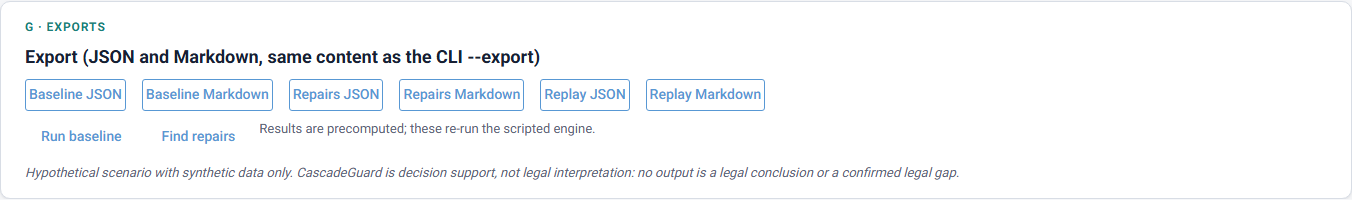
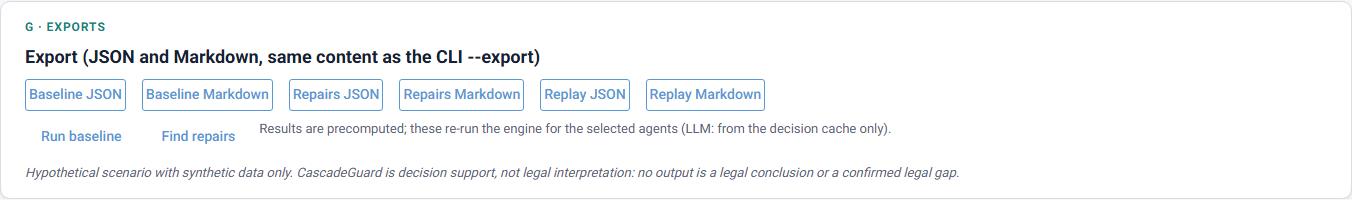
Phase 6: replay lanes rebuilt only when shown; wider graph columns; report and PROGRESS

Changed region(s): [[0.3728, 0.6, 0.6524, 0.69]]

diff --git a/src/cascadeguard/ui/app.py b/src/cascadeguard/ui/app.py
@@ -710,7 +710,7 @@ def index() -> None:
     views = {
         "a": verdict_view.refresh,
         "b": lambda: (baseline_lanes.refresh(), role_panel_view.refresh()),
-        "r": lambda: (replay_lanes.refresh(), role_panel_view.refresh()),  # in section b
+        "r": lambda: refresh_replay_lanes(),  # in section b
         "c": refresh_graph,
         "d": diagnosis_view.refresh,
         "e": ladder_view.refresh,
@@ -780,7 +780,20 @@ def index() -> None:
         load(cast(Bundle | str, await run.io_bound(recompute, s.scenario, s.mode)))
         ui.notify("Re-ran the baseline and repair search.")
 
+    replay_stale = [False]  # replay lanes not rebuilt since the data or selection changed
+
+    def refresh_replay_lanes() -> None:
+        """Rebuild the replay lanes only while they are shown; otherwise on the switch to them."""
+        if replay_box.visible:
+            replay_lanes.refresh()
+            role_panel_view.refresh()
+        else:
+            replay_stale[0] = True
+
     def pick_lanes(which: str) -> None:
+        if which == "replay" and replay_stale[0]:
+            replay_stale[0] = False
+            replay_lanes.refresh()
         if s.cell is not None and (s.lanes_run, *s.cell) in cells:
             cells[(s.lanes_run, *s.cell)].classes(remove="cg-cell-selected")
         s.lanes_run, s.cell = which, None

diff --git a/src/cascadeguard/ui/view_model.py b/src/cascadeguard/ui/view_model.py
@@ -235,7 +235,7 @@ def graph_option(result: RunResult, failure_id: str | None = None) -> dict[str, 
     for n in names:
         columns[n.split(":", 1)[0]].append(n)
     position = {
-        n: (160 * KINDS.index(kind), 34 * row)
+        n: (300 * KINDS.index(kind), 30 * row)
         for kind, members in columns.items()
         for row, n in enumerate(members)
     }

diff --git a/docs/review/phase-6-ui/README.md b/docs/review/phase-6-ui/README.md
@@ -1,35 +1,49 @@
 # Phase 6 — Demo UI v2: before / after
 
 Spec: `specs/006-demo-ui-v2.md` (approved 2026-10-26). Localhost, Chromium (Playwright),
-1400×1000, scripted agents, fresh server; each number is the median of 3 runs, each run in a
-new browser context (same method before and after). "Before" is the Phase 4 UI on `main`
-(`425ad8b`); "after" is `phase-6-ui`.
+1400×1000, scripted agents, fresh server. Two methods:
 
-| Measurement | Before | After | Budget |
-|---|---|---|---|
-| First meaningful content | 1,276 ms (load 352 + "Run baseline" click 924) | **414 ms**, no click (verdict) | < 1,500 ms |
-| Repair list | "Find repairs" click: 883 ms | precomputed; stepper to e: **74 ms** | < 200 ms |
-| Compare a repair | 284 ms | **84 ms** | < 200 ms |
-| Role view for another inject | 228 ms (inject select) | **92 ms** (swimlane cell) | < 200 ms |
-| Graph highlight | 125 ms | **159 ms** (dropdown: 2 clicks; options updated in place) | < 200 ms |
-| Stepper (a→b, b→c, c→d, d→e) | n/a | 92, 82, 79, 74 ms | < 200 ms |
-| Swimlanes baseline → replay | n/a | 169 ms | < 200 ms |
-| Guided → Expert | n/a | 145 ms | < 200 ms |
-| Agents Scripted → LLM (cached only), verdict updated | n/a (re-run needed) | 104 ms | < 200 ms |
-| Agents LLM → Scripted, verdict updated | n/a | 140 ms | < 200 ms |
-| Same, every Expert section re-rendered (streamed after the visible update) | n/a | 324 / 406 ms | not a click budget |
+- **Back-to-back script** (same as "before"): median of 3 runs, each run a new browser context;
+  clicks follow each other with no pause. "Before" is the Phase 4 UI on `main` (`425ad8b`).
+- **Budget test** (`tests/e2e/test_ui_flow.py::test_performance_budget`): median of 5 after one
+  warm-up, 500 ms after the previous click; budget × `CASCADEGUARD_PERF_FACTOR` (default 1,
+  CI 3). This is the check that enforces spec 006.
 
-`tests/e2e/test_ui_flow.py::test_performance_budget` enforces the budgets (median of 5 after a
-warm-up; budget × `CASCADEGUARD_PERF_FACTOR`, default 1, CI 3) and prints each number. Local
-run (factor 1): paint 573 ms, stepper 114, cell → role view 131, graph highlight 137, compare
-162, agents switch 140 ms. CI numbers (factor 3): in the PR's CI log.
+Machine load differed: the server started in 2.3 s for the "before" run and in 4.2 s for the
+final "after" run (other applications busy), so the after numbers are, if anything, pessimistic.
 
-What made it fast: scripted baseline and search computed once at startup (0.25 s); first paint
-holds only header, stepper and verdict, the other sections stream in over the websocket; the
-graph is created once and its options updated in place; a click refreshes what is on screen
-first and the hidden sections right after; the ladder and swimlane cells are highlighted in
-place; exports are built only when a download button is clicked; NiceGUI's Tailwind runtime is
-off (`theme.css` defines the few utilities used).
+| Measurement | Before (script) | After (script) | After (budget test, factor 1) | Budget |
+|---|---|---|---|---|
+| First meaningful content | 1,276 ms (load 352 + "Run baseline" click 924) | **588 ms**, no click | **700 ms** | < 1,500 ms |
+| Repair list | "Find repairs" click: 883 ms | precomputed; stepper d→e **111 ms** | — | < 200 ms |
+| Compare a repair | 284 ms | **124 ms** | **129 ms** | < 200 ms |
+| Role view for another inject | 228 ms (inject select) | **147 ms** (swimlane cell) | **91 ms** | < 200 ms |
+| Graph highlight | 125 ms (one click) | 217 ms (dropdown: two clicks) | **134 ms** (one click) | < 200 ms |
+| Stepper a→b (right after load) | n/a | 192 ms | **95 ms** | < 200 ms |
+| Stepper b→c, c→d | n/a | 166, 135 ms | — | < 200 ms |
+| Swimlanes baseline → replay | n/a | 179 ms | **114 ms** | < 200 ms |
+| Guided → Expert | n/a | 190 ms | — | < 200 ms |
+| Agents Scripted → LLM (cache), verdict updated | n/a (re-run needed) | 221 ms | **140 ms** | < 200 ms |
+| Agents LLM → Scripted, verdict updated | n/a | 150 ms | — | < 200 ms |
+| Every Expert section after an agents switch (streamed after the visible update) | n/a | 637 / 965 ms | — | not a click budget |
+
+**Open point for the human:** in the back-to-back script, two clicks are over 200 ms: the
+dropdown highlight (two clicks) and the first agents switch. Both happen while the previous
+click's hidden sections are still streaming in. The budget test, with a 500 ms gap between
+clicks, passes every budget.
+
+What made it fast:
+- The scripted baseline and search are computed once at startup (0.25 s).
+- The first paint holds only the header, the stepper and the verdict; the other sections
+  stream in over the websocket.
+- The graph is created once, with a fixed layered layout, and highlighted by updating its
+  options.
+- A click refreshes what is on screen first; hidden sections follow 300 ms later.
+- The ladder rungs, swimlane cells and bars are escaped HTML blocks (DOMPurify on top) and are
+  highlighted in place.
+- The replay lanes are rebuilt only while they are shown.
+- Exports are built only when a download button is clicked.
+- NiceGUI's Tailwind runtime is off; `theme.css` defines the few utilities the page uses.
 
 ## Screenshots
 
@@ -37,8 +51,15 @@ Before: `before-header.png`, `before-timeline.png`, `before-role-view.png`,
 `before-graph-diagnosis.png`, `before-repairs.png`, `before-comparison.png`,
 `before-export.png`, `before-viewport.png`, `before-full-page.png`.
 
-After (guided steps): `after-a.png` verdict, `after-b.png` swimlanes (replay, with obligation
-bars), `after-c.png` cascade graph, `after-d.png` diagnosis cards, `after-e.png` repair
-ladder, `after-f.png` split screen, `after-g.png` exports, `after-f-llm.png` scripted vs LLM
-row with the recorded finding (local decision cache), `after-header.png`, `after-expert.png`,
-`after-viewport.png`, `after-full-page.png`, `after-dark-full-page.png`.
+After (guided steps):
+- `after-a.png`: verdict
+- `after-b.png`: swimlanes (replay, with obligation bars)
+- `after-c.png`: cascade graph
+- `after-d.png`: diagnosis cards
+- `after-e.png`: repair ladder
+- `after-f.png`: split screen
+- `after-g.png`: exports
+- `after-f-llm.png`: the scripted vs LLM row with the recorded finding (local decision cache)
+
+Also: `after-header.png`, `after-expert.png`, `after-viewport.png`, `after-full-page.png`,
+`after-dark-full-page.png`.

diff --git a/PROGRESS.md b/PROGRESS.md
@@ -10,7 +10,11 @@ tagged `phase-5`** (2026-10-26, on the human's instruction). Report:
 
 **ADR 0002 option A: merged to main via PR #7 (merge commit, branch `adr-0002-option-a` kept),
 tagged `adr-0002-a`** (2026-10-26, on the human's instruction, CI green). Report:
-`docs/review/adr-0002-option-a-report.md`. Next: Phase 6 — Demo UI v2.
+`docs/review/adr-0002-option-a-report.md`.
+
+**Phase 6 — Demo UI v2: built on `phase-6-ui`, PR open, not merged (human instruction).**
+Spec `specs/006-demo-ui-v2.md` (approved with the human's answers, 2026-10-26). Report and
+before/after numbers and screenshots: `docs/review/phase-6-ui/README.md`.
 
 **Open items:**
 - **ADR 0002 option A:** merged (PR #7, tag `adr-0002-a`). Known limitation: two owners for
@@ -23,6 +27,50 @@ tagged `adr-0002-a`** (2026-10-26, on the human's instruction, CI green). Report
   by `test_known_limitation_gap_pattern_flags_own_inaction`).
 
 ## Done
+
+### Phase 6 — Demo UI v2 (branch `phase-6-ui`, PR open)
+- Scope decision (human, 2026-10-26): Phase 6 = Demo UI v2, tracing moves to Phase 7; recorded
+  in `START_PROMPT.md` (c529306), `AGENTS.md` (Phoenix is Phase 7, 4fb2515, approved by the
+  human in chat) and the structure file.
+- `ui/app.py` rewritten: page opens precomputed (scripted baseline and search at startup; LLM
+  cache-only in the background, per-key locks); header with scenario, agents (Scripted | LLM
+  (cached only), no live mode), Guided | Expert, light/dark; sections a verdict strip, b
+  timeline swimlanes with obligation bars and role views, c cascade graph (created once, fixed
+  layered layout, options updated in place), d diagnosis cards per category, e repair ladder
+  (badge rule below), f split screen with the scripted vs LLM row, g exports (unchanged
+  builders, built on click) and the disclaimer; Expert adds clause set and findings.
+  `ui/theme.css`: design tokens, light/dark, fixed clause-status colours; local assets only;
+  Tailwind runtime off. `ui/view_model.py` gains formatting-only builders (verdict, swimlanes,
+  bars, diagnosis cards, ladder, scripted vs LLM). No engine change.
+- `scenarios/uae_health_access/evaluation_findings.yaml`: the human-worded ADR 0002 finding,
+  shown only for the exact prompt version (`phase5-v4+json_object`), the same repair and
+  matching computed verdicts; validated on load.
+- Tests: `tests/unit/test_view_model_v2.py` (21), `tests/e2e/test_ui_flow.py` (5: guided flow
+  a-f, expert, LLM cache-only row, no model configured, performance budget). CI sets
+  `CASCADEGUARD_PERF_FACTOR=3`.
+- Performance (details and both methods in the report): first meaningful paint 588 ms with no
+  click (before: 1,276 ms after a "Run baseline" click); budget test (median of 5, factor 1):
+  paint 700 ms, every click 91-140 ms. Back-to-back script: two clicks over 200 ms while hidden
+  sections stream (see "Waiting on human").
+- Playwright MCP demo flow run (2026-10-26): verdict on open, timeline with obligations and
+  labels, replay split screen, exports, LLM (cached only) with the real local cache showing
+  "resolved vs partial" and the recorded finding (`after-f-llm.png`).
+- Review round 1: evidence-auditor PASS (triage `docs/review/phase-6-clause-triage.md`);
+  phase-auditor FAIL (MAJOR: stale PROGRESS, fixed here; MINORs fixed: swimlane switch
+  measured, bundle lock, exact prompt match, findings validation, mode-aware rerun text, spec
+  test name, structure file, role-view boundary assertion); test-breaker FAIL (MAJORs fixed:
+  no scripted results under the LLM toggle when no model is configured, swimlane budget
+  tested; MINORs fixed: prompt match, baseline caveat with nothing ranked, bundle lock, engine
+  labels, changed actions in both modes, export without selection).
+
+Verify:
+
+```bash
+uv run python -m cascadeguard.ui.app      # http://localhost:8765, opens precomputed
+uv run pytest tests/unit/test_view_model_v2.py
+uv run pytest tests/e2e -s                # guided flow, budgets (prints every number)
+uv run ruff check . && uv run ruff format --check . && uv run pyright && uv run pytest
+```
 
 ### ADR 0002 option A (merged via PR #7, tag `adr-0002-a`; human decision 2026-10-26)
 - An owner edit carries `deadline_minutes` (default 30, in the id: `owner.<action>.<role>.30m`).
@@ -698,6 +746,15 @@ clauses are precedents and context for gap analysis and can be reviewed later.
 
 ## Waiting on human
 
+**Phase 6 (2026-10-26):**
+- Badge rule: is a run with `invalid_output` steps "complete" for the "smallest safe repair"
+  badge? Today only infrastructure failures (inconclusive) block it (test-breaker question).
+- Performance: the e2e budget passes (500 ms between clicks); a back-to-back script shows the
+  two-click dropdown highlight and the first agents switch at 217 / 221 ms. Accept, or tighten?
+- Gate 6: confirm the `START_PROMPT.md` and `AGENTS.md` edits (Phase 6/7) recorded as approved
+  in chat; `START_PROMPT.md` Phase 6 has no "Done when" sentence yet.
+- Merge PR (not merged, by instruction).
+
 **Phase 5 (2026-10-24):** the human answered P5-1 to P5-6 (see Decisions); remaining:
 none blocking until the LLM baseline report.
 
@@ -791,13 +848,8 @@ the Phase 4 review gates (see Decisions). Re-approval needed (gate 1): none
 
 ## Next step
 
-Phase 6 — Demo UI v2 on `phase-6-ui`: `specs/006-demo-ui-v2.md` written; **waiting for the
-human's approval and answers to its four questions before any code.** "Before" measurements
-(Phase 4 UI, median of 3, localhost) in the spec; "before" screenshots in
-`docs/review/phase-6-ui/`. **Scope decision (human, 2026-10-26):** Phase 6 = Demo UI v2;
-tracing moves to Phase 7 (optional, off by default, scope unchanged); recorded in
-`START_PROMPT.md` and the structure file. `AGENTS.md` still says "Phoenix (Phase 6, optional)":
-not edited (gate 6), flagged for the human. Still open: the deferred MINORs,
+The human reviews the Phase 6 PR (branch `phase-6-ui`) and answers the Phase 6 items in
+"Waiting on human". Then Phase 7 (tracing, optional). Still open: the deferred MINORs,
 the gap-wording known limitation and the two-owners limitation.
 
 Earlier (done):
